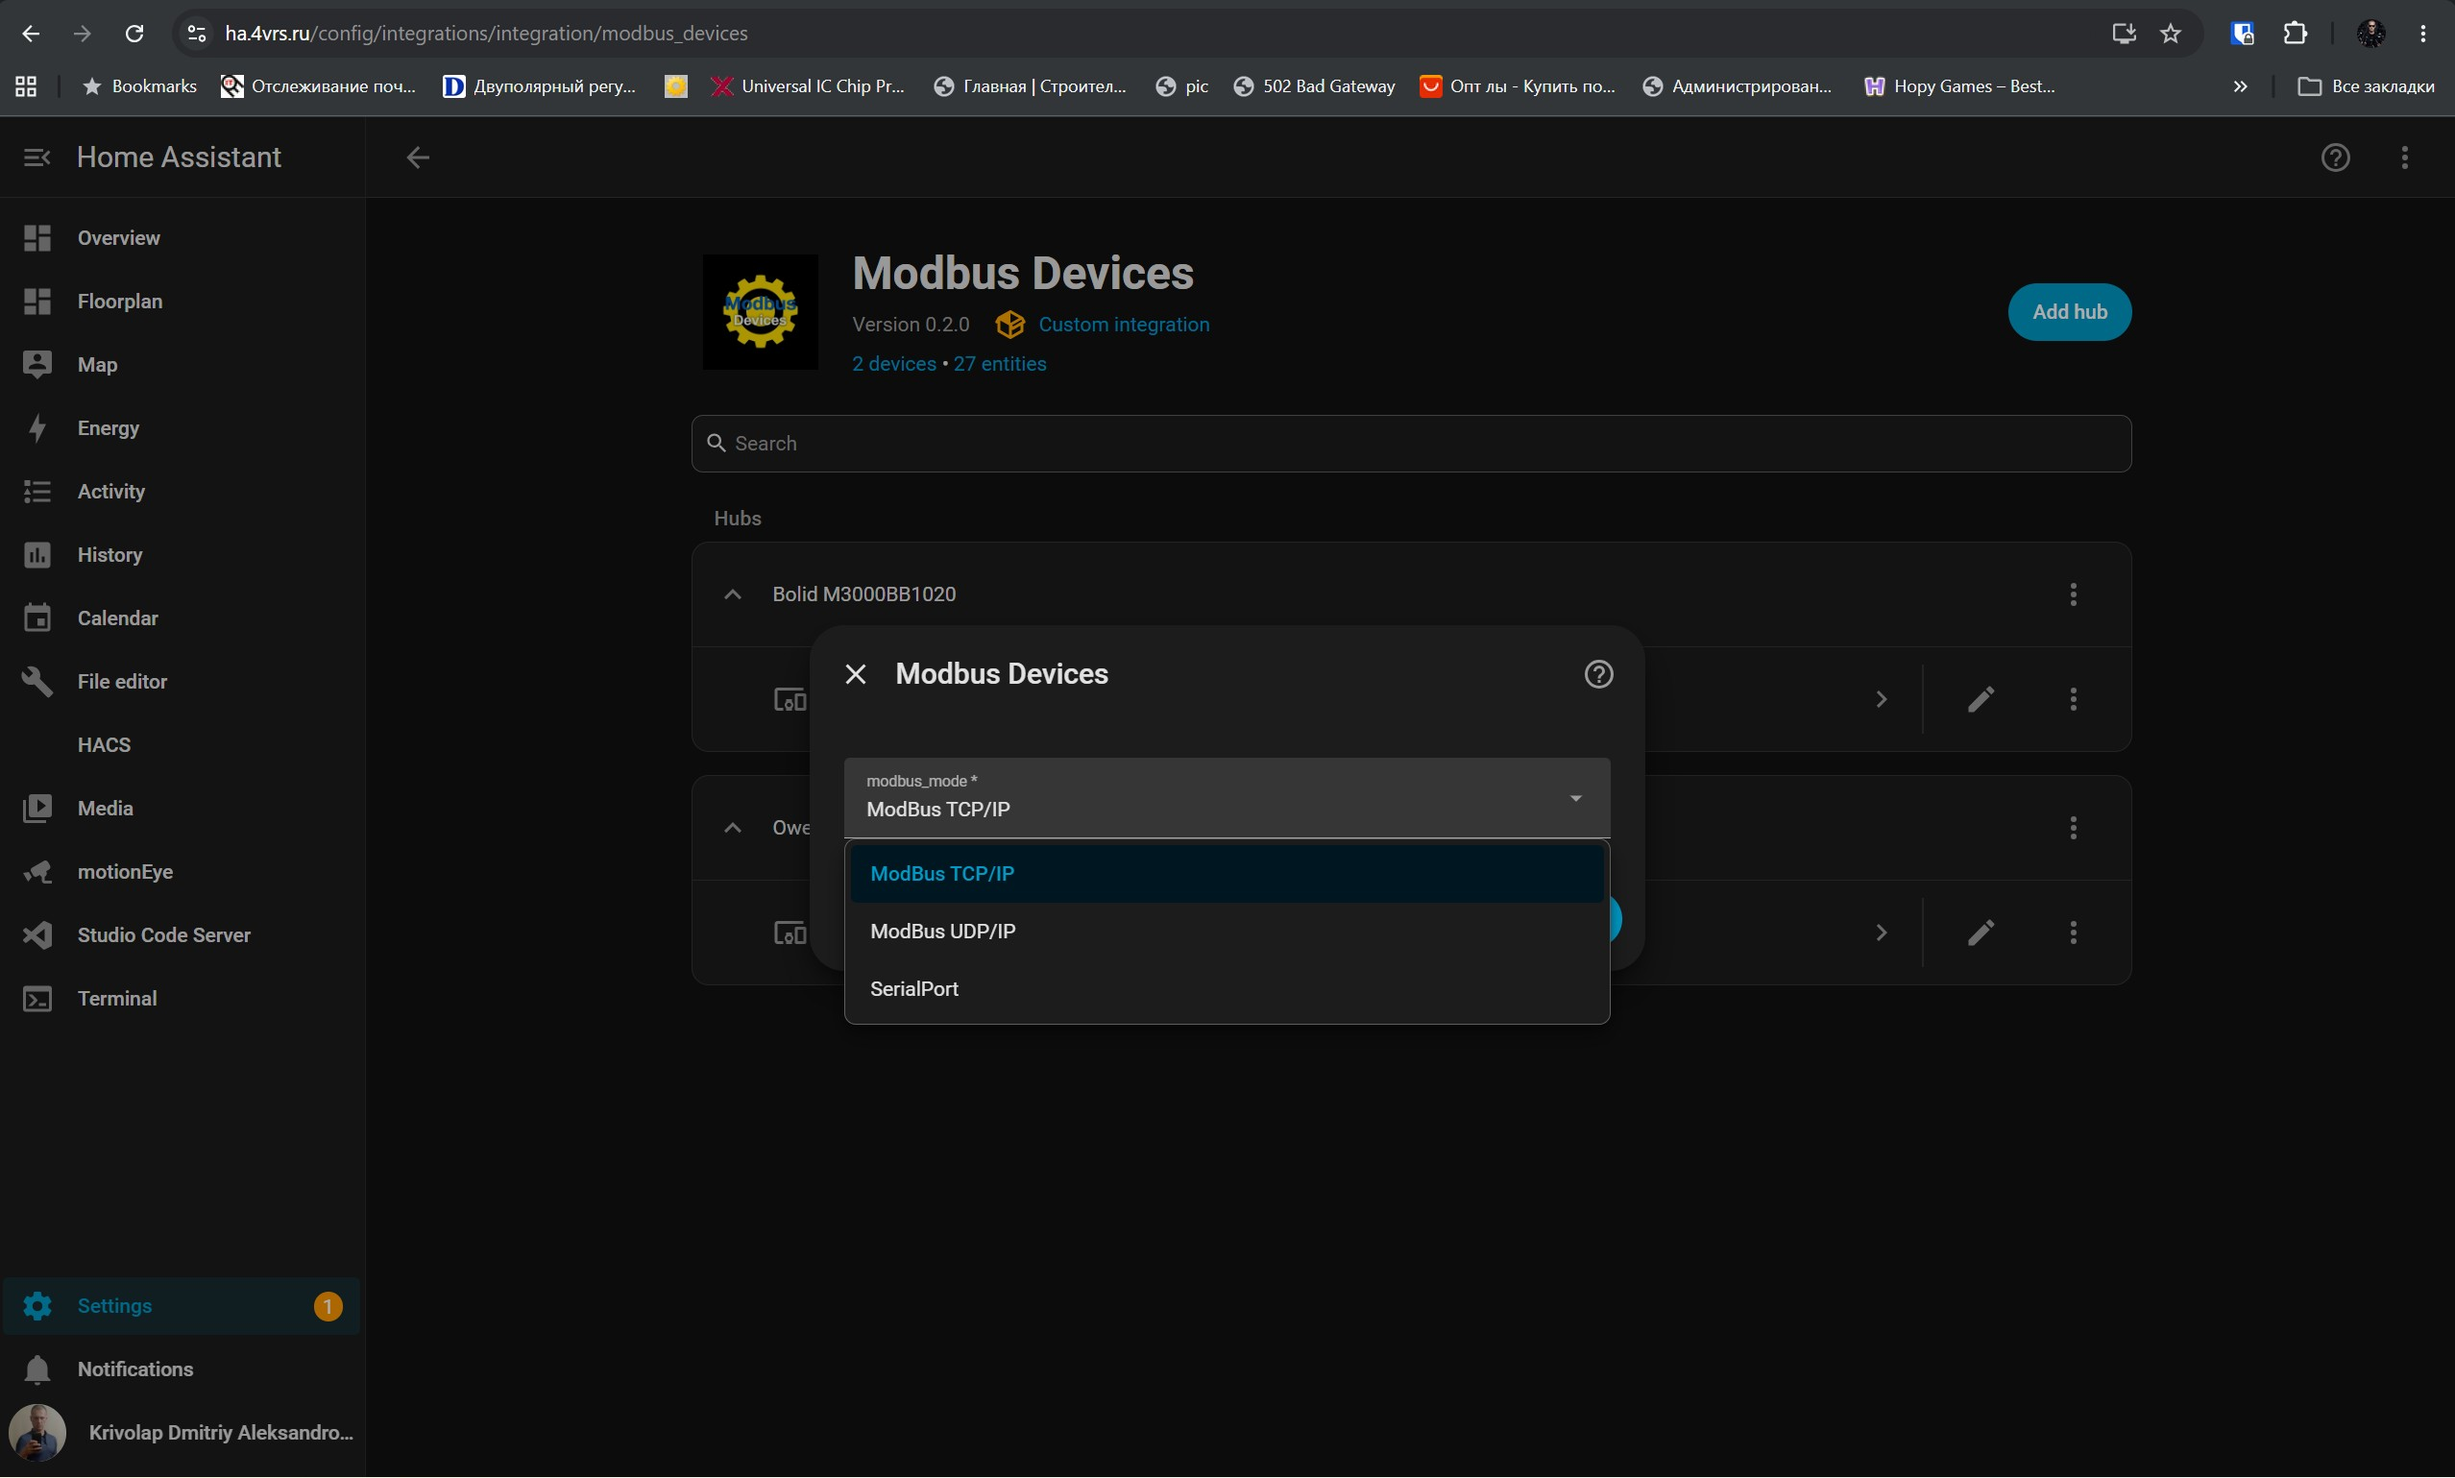
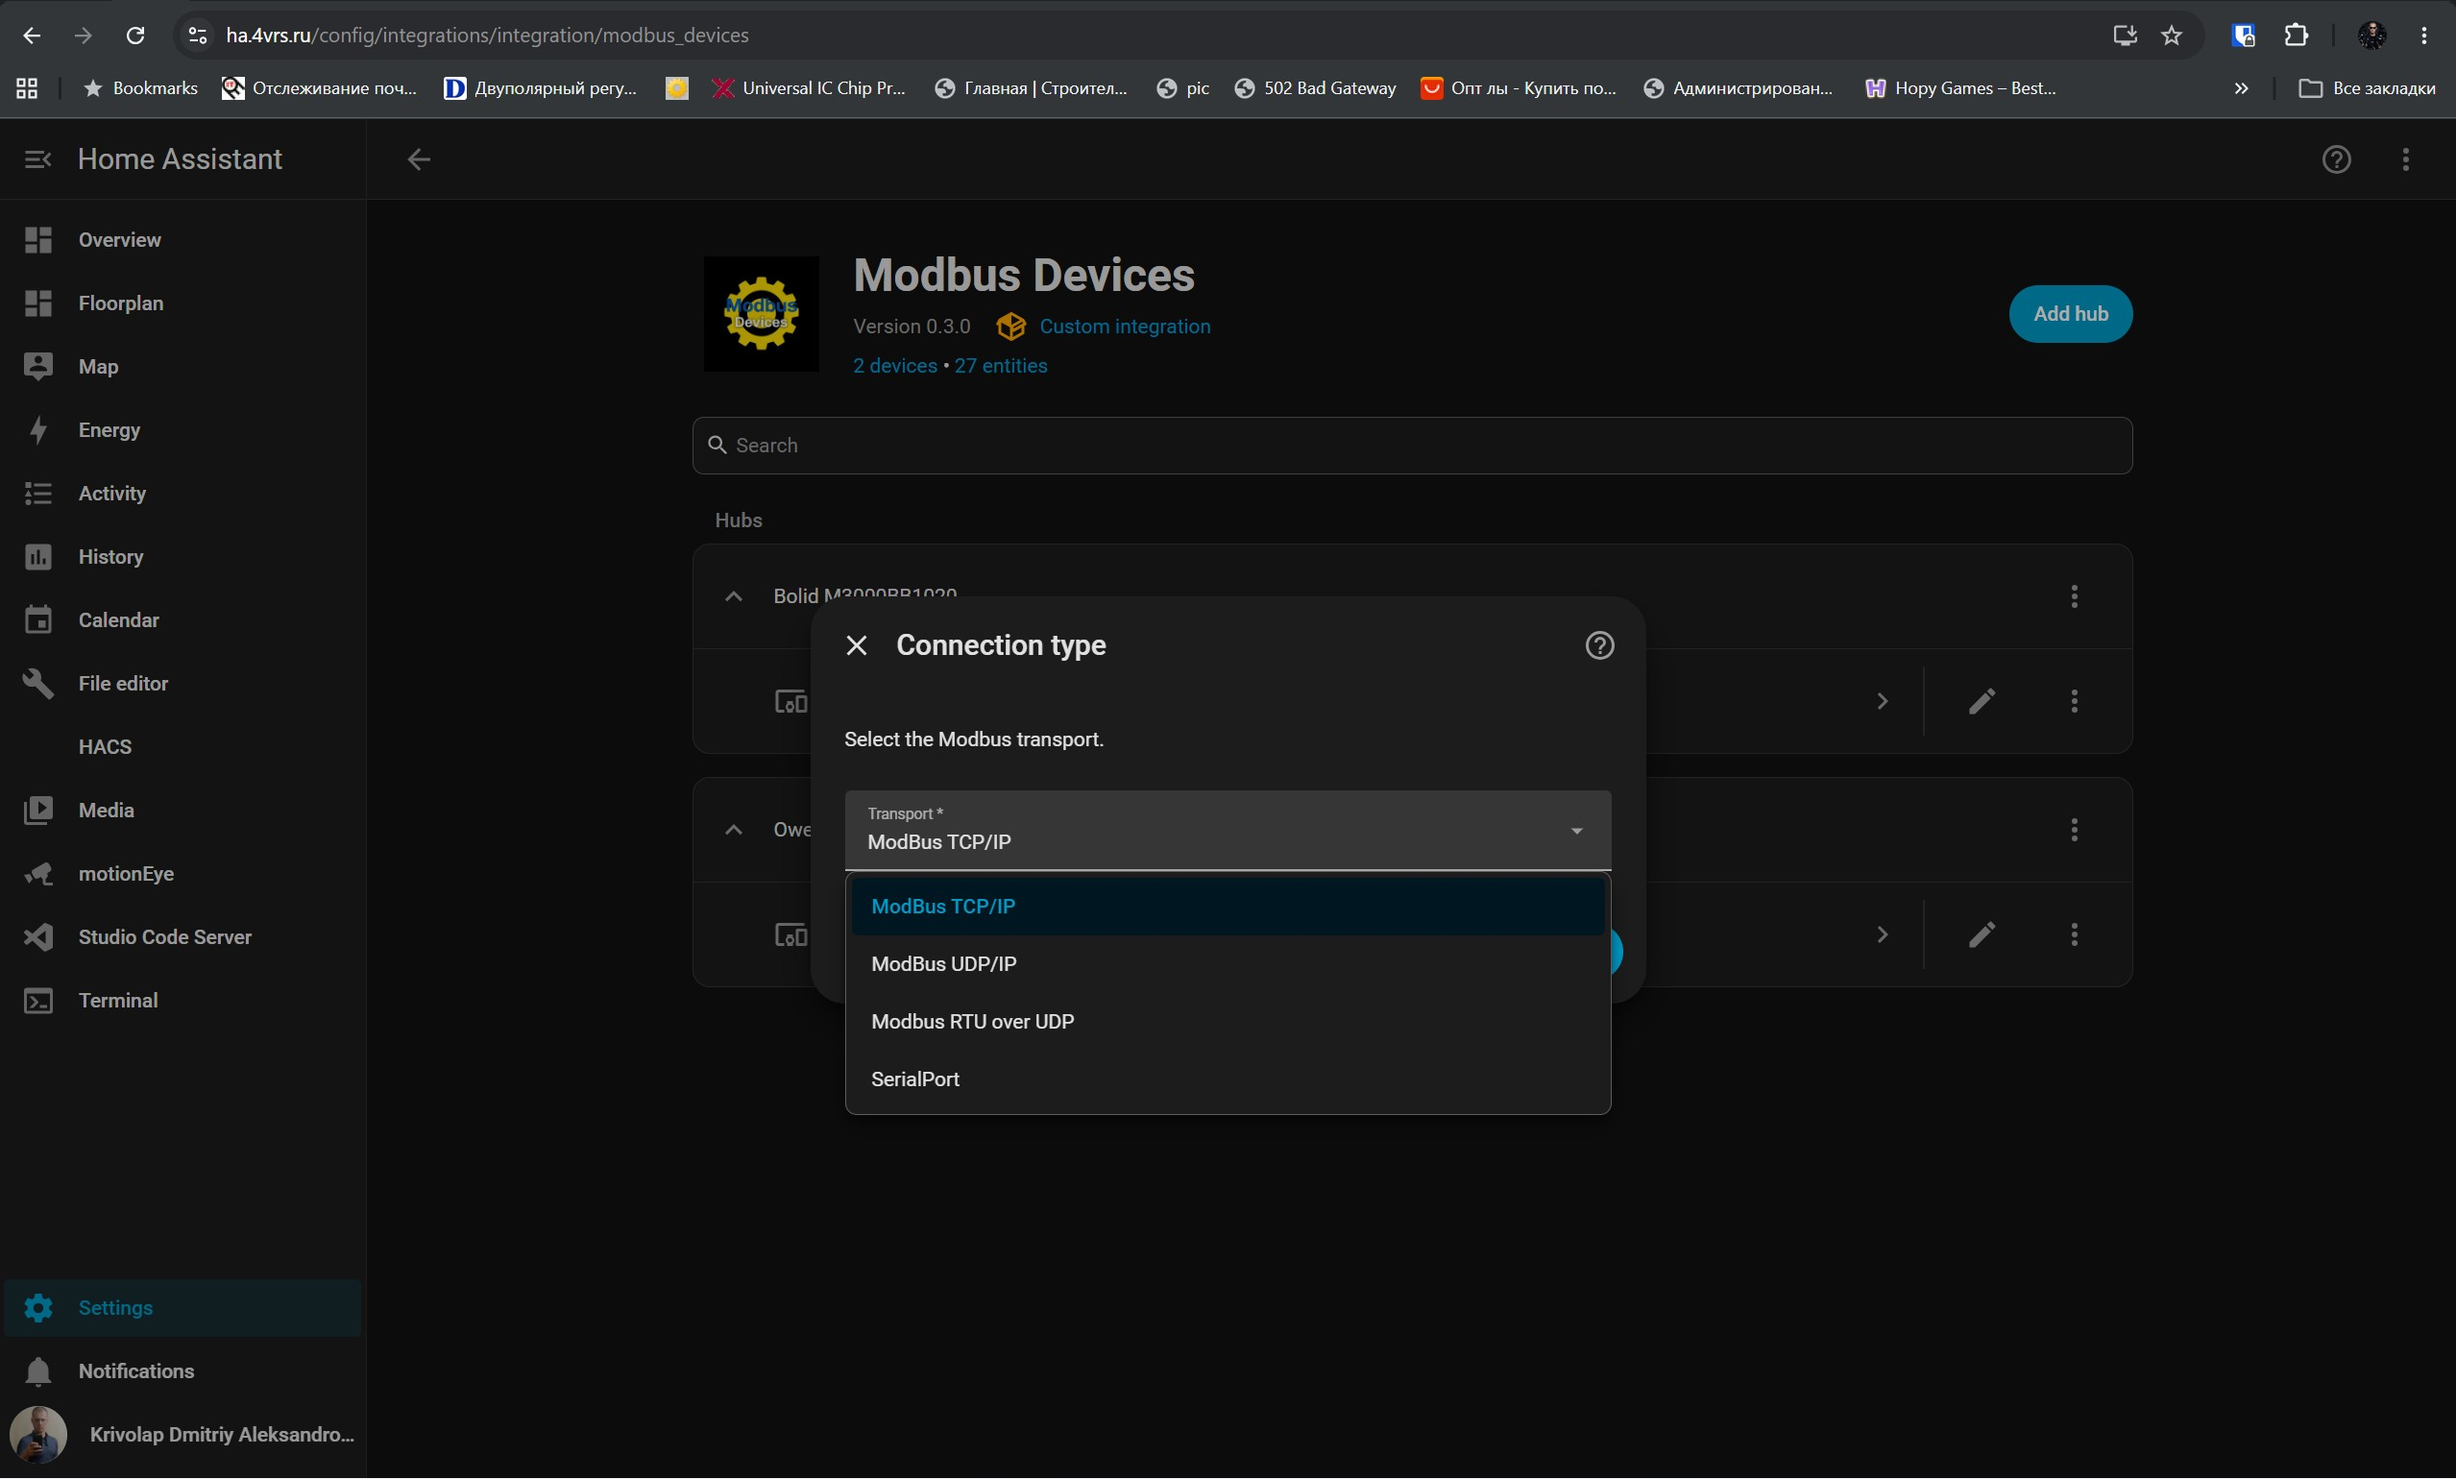
docs: update Config Flow screenshot
- refresh AD_step1 for the current Config Flow
- show the updated transport and manufacturer selection UI
- keep English and Russian documentation aligned

diff --git a/README_RU.md b/README_RU.md
@@ -191,7 +191,7 @@ Native Modbus UDP/IP и Modbus RTU over UDP — разные протоколы 
 
 ### 1. Выберите транспорт
 
-Выберите ModBus TCP/IP, ModBus UDP/IP, SerialPort или Modbus RTU over UDP в соответствии с подключением прибора. Screenshot создан до добавления RTU-over-UDP; ориентируйтесь на актуальные подписи UI.
+Выберите ModBus TCP/IP, ModBus UDP/IP, SerialPort или Modbus RTU over UDP в соответствии с подключением прибора. Screenshot показывает актуальный UI выбора транспорта.
 
 <p align="center"><img src="pictures/config-flow/MD_menu_step1.jpg" alt="Выбор транспорта Modbus Devices" width="78%"></p>
 

diff --git a/README.md b/README.md
@@ -191,7 +191,7 @@ These screenshots show a real Home Assistant Config Flow. Start from **Settings 
 
 ### 1. Select the transport
 
-Choose ModBus TCP/IP, ModBus UDP/IP, SerialPort, or Modbus RTU over UDP according to the device connection. The screenshot predates the RTU-over-UDP option; use the current UI labels.
+Choose ModBus TCP/IP, ModBus UDP/IP, SerialPort, or Modbus RTU over UDP according to the device connection. The screenshot shows the current transport selection UI.
 
 <p align="center"><img src="pictures/config-flow/MD_menu_step1.jpg" alt="Modbus Devices transport selection" width="78%"></p>
 
